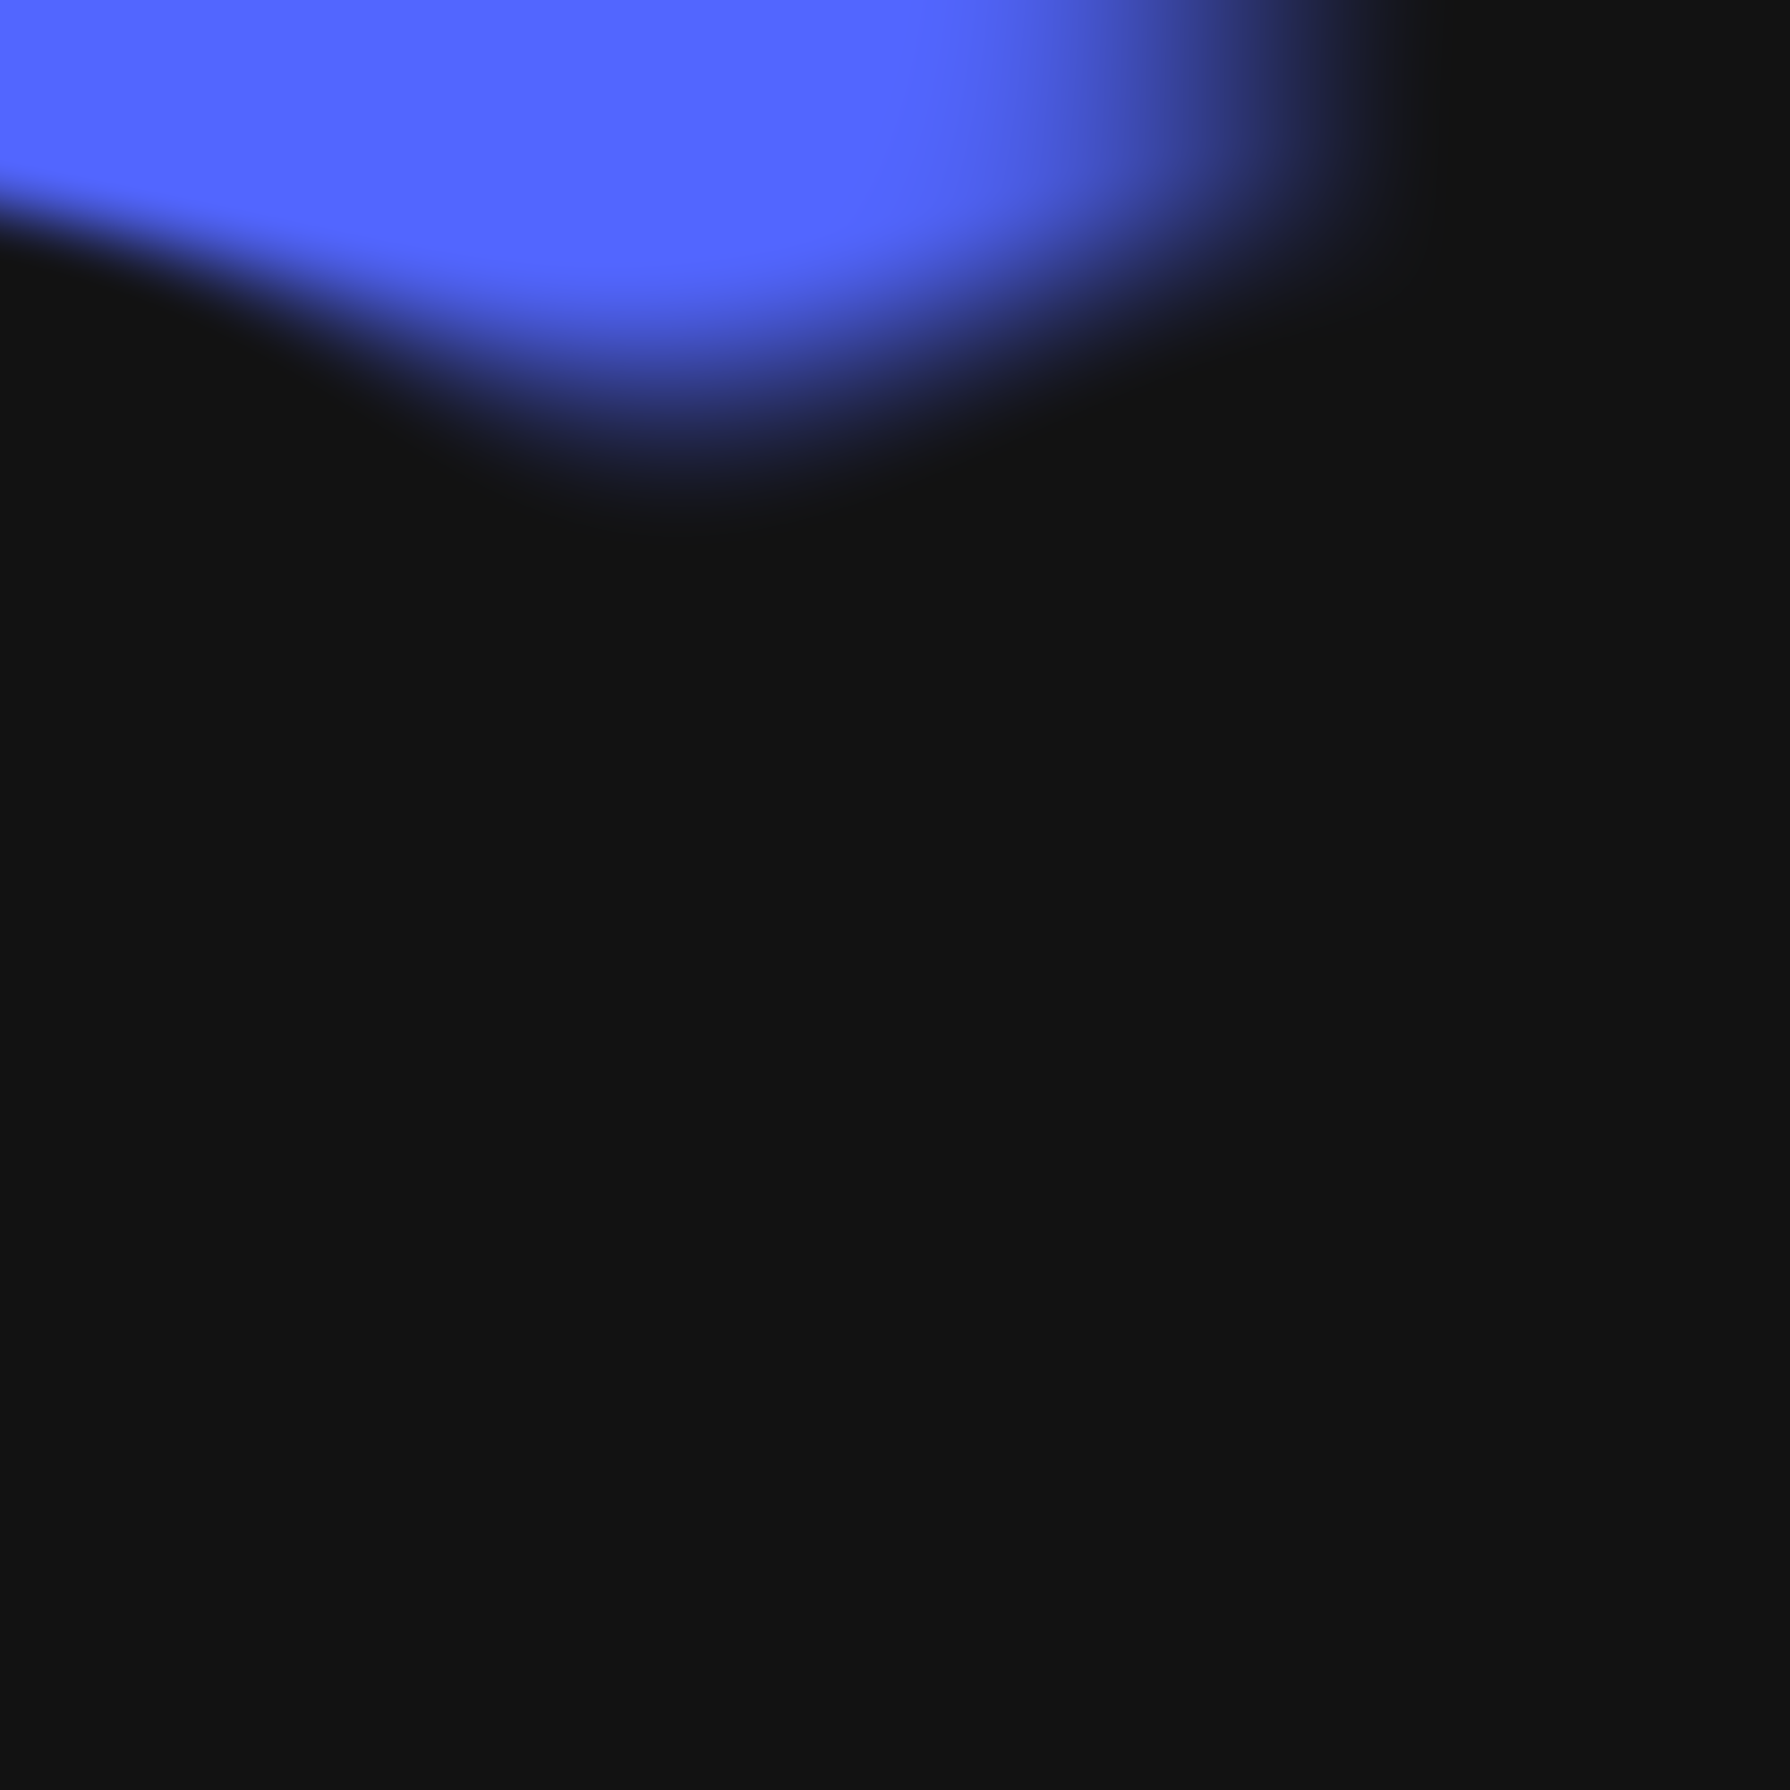
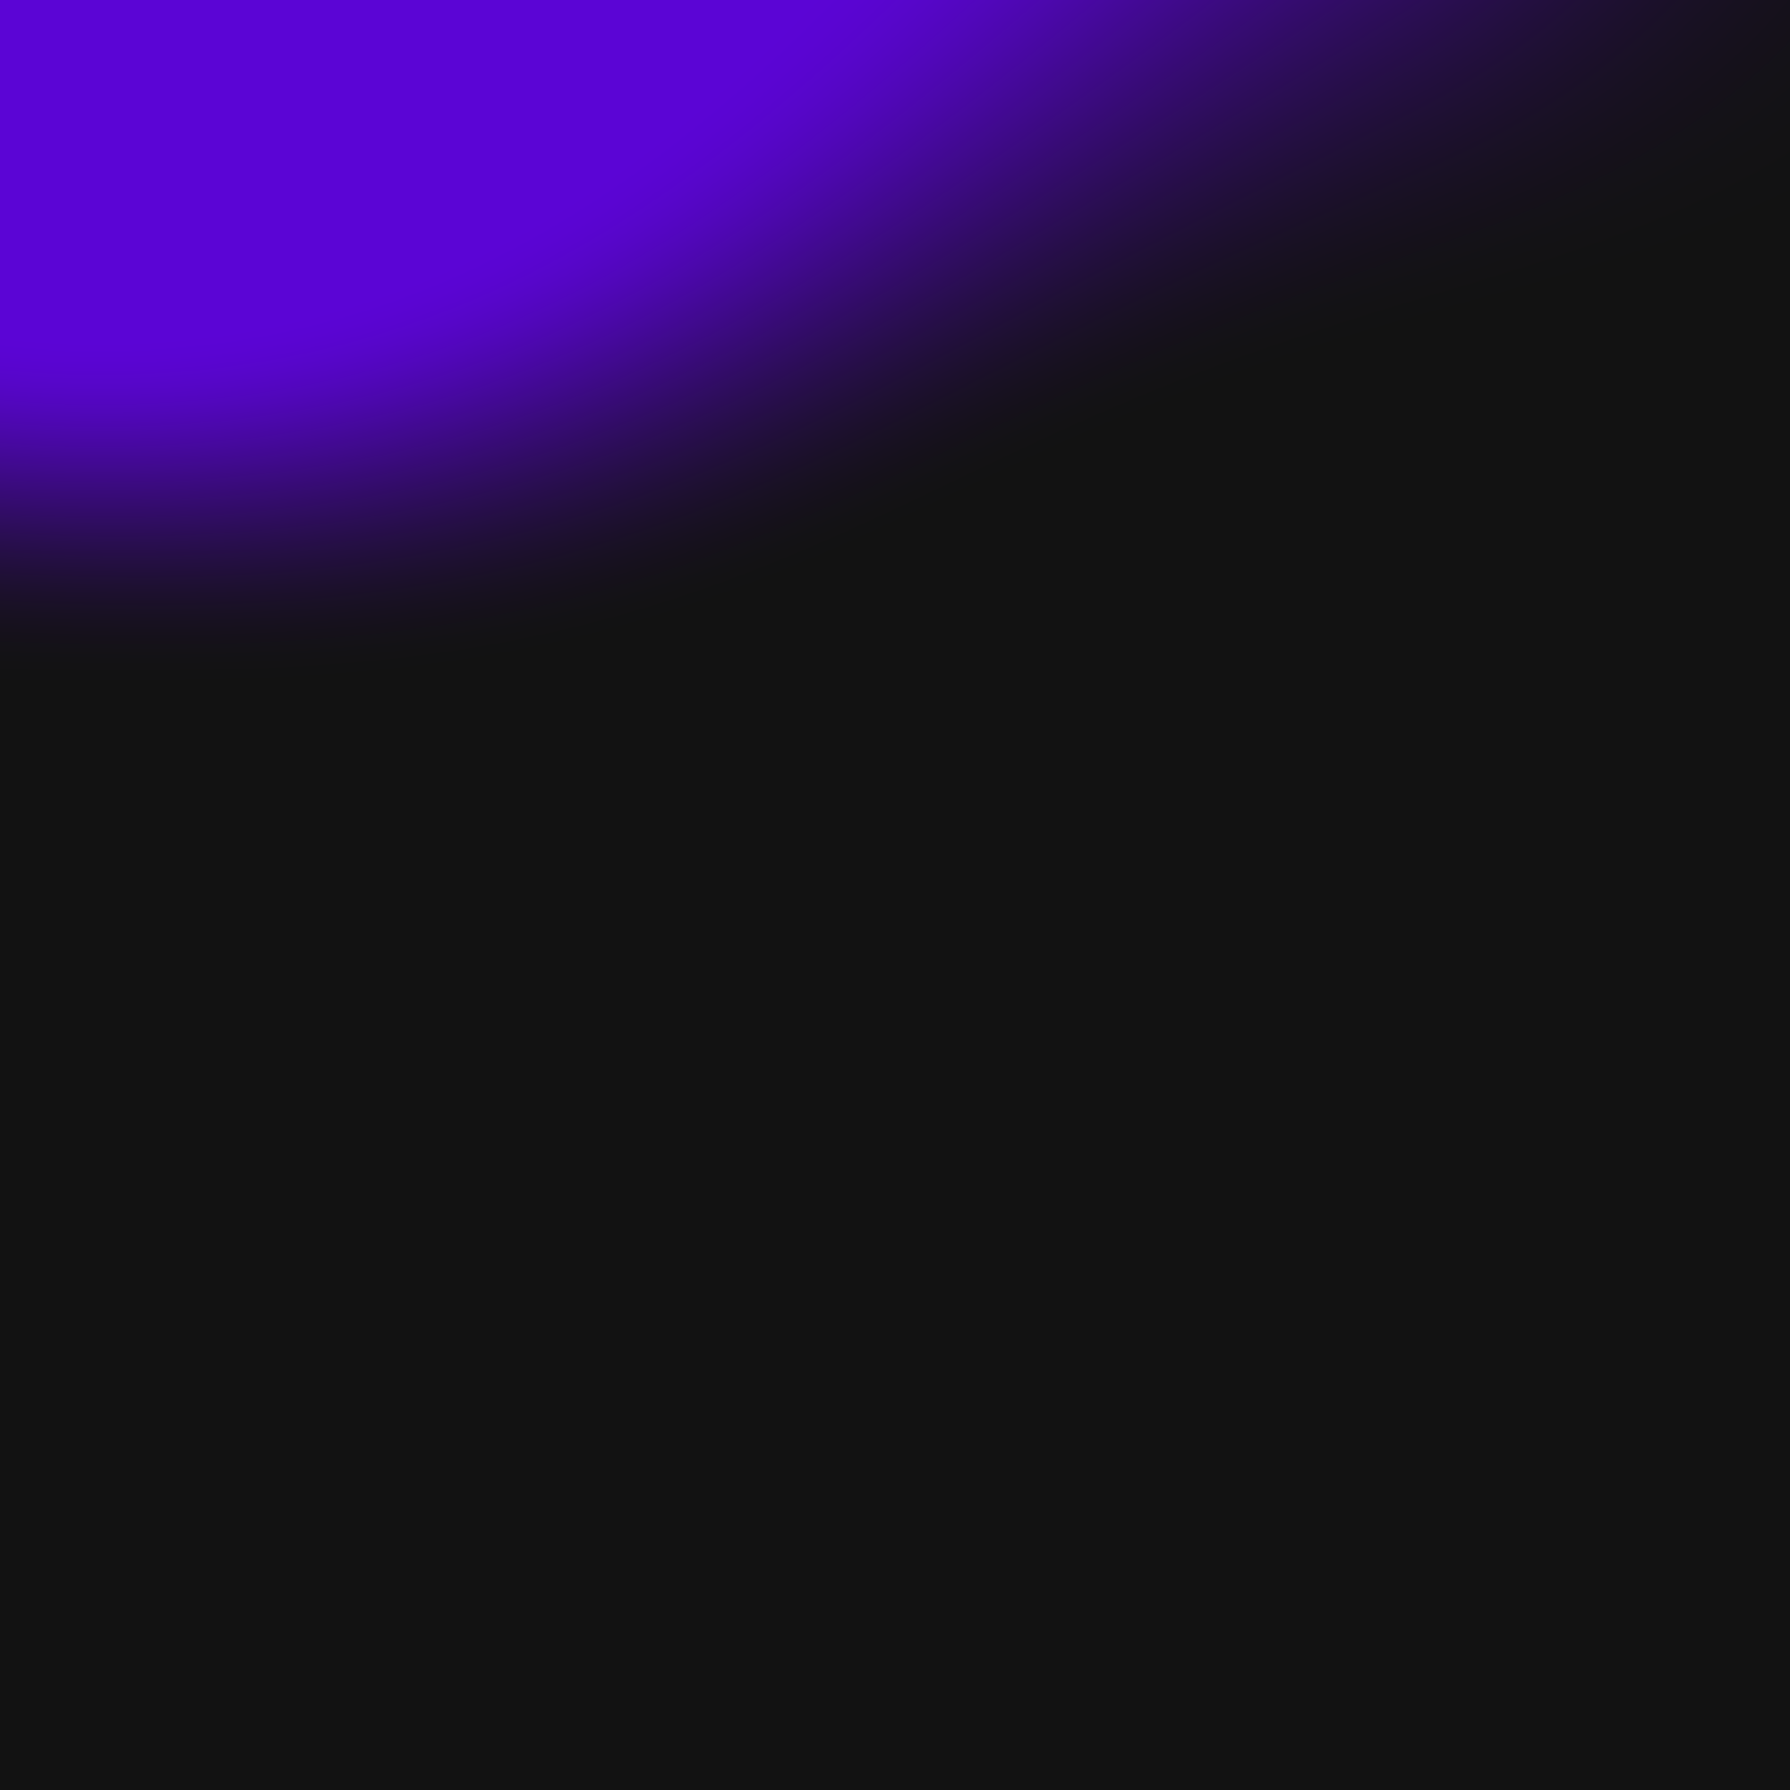
initialized dark mode

Changed region(s): [[0.0, 0.0, 0.93, 0.341]]

diff --git a/public/stylesheets/main.min.css b/public/stylesheets/main.min.css
@@ -1,2 +1,2 @@
-html{--scrollbarBG: #cfd8dc;--thumbBG: #90a4ae}body::-webkit-scrollbar{width:11px}body{scrollbar-width:thin;scrollbar-color:var(--thumbBG) var(--scrollbarBG)}body::-webkit-scrollbar-track{background:var(--scrollbarBG)}body::-webkit-scrollbar-thumb{background-color:var(--thumbBG);border-radius:6px;border:3px solid var(--scrollbarBG)}body{font-family:"Poppins", sans-serif;font-weight:400}.navbar{font-family:"DM Sans", sans-serif;font-weight:700;font-size:1.1rem;width:100%;z-index:1}.navbar .btn:nth-child(1):hover{color:white}.navbar a:not(.dropdown-toggle):not(.nohover){display:inline-block;text-decoration:none}.navbar a:not(.dropdown-toggle):not(.nohover)::after{content:"";display:block;width:0;height:2px;background:black;-webkit-transition:width 0.3s;transition:width 0.3s}.navbar a:not(.dropdown-toggle):not(.nohover):hover{color:black}.navbar a:not(.dropdown-toggle):not(.nohover):hover::after{width:100%;-webkit-transition:width 0.3s;transition:width 0.3s}.koristenje{margin-bottom:1rem;font-size:1.4rem;color:black;display:inline-block;text-decoration:none}.koristenje::after{content:"";display:block;width:0;height:2px;background:black;-webkit-transition:width 0.3s;transition:width 0.3s}.koristenje:hover{color:black}.koristenje:hover::after{width:100%;-webkit-transition:width 0.3s;transition:width 0.3s}.pocetak{margin:5rem 0}.pocetak p{font-size:1.5rem;color:#774df3;font-family:"Raleway", sans-serif;font-weight:400}.pocetak a{font-family:"DM Sans", sans-serif;font-weight:700;font-size:1.25rem}.pocetak img{height:7rem;-webkit-animation-name:arrowDown;animation-name:arrowDown;-webkit-animation-duration:3s;animation-duration:3s;-webkit-animation-iteration-count:infinite;animation-iteration-count:infinite}@-webkit-keyframes arrowDown{0%{-webkit-transform:translateY(0px);transform:translateY(0px)}50%{-webkit-transform:translateY(1.5rem);transform:translateY(1.5rem)}100%{-webkit-transform:translateY(0px);transform:translateY(0px)}}@keyframes arrowDown{0%{-webkit-transform:translateY(0px);transform:translateY(0px)}50%{-webkit-transform:translateY(1.5rem);transform:translateY(1.5rem)}100%{-webkit-transform:translateY(0px);transform:translateY(0px)}}.display-1,.display-2,.display-3,.display-4{font-family:"DM Sans", sans-serif}h2{font-weight:300}.mesh{background:url(../images/light-mesh.png)}@media (min-width: 992px){.mesh{background:url(../images/light-mesh.png) no-repeat;-webkit-animation-name:mesh;animation-name:mesh;-webkit-animation-duration:7s;animation-duration:7s;-webkit-animation-iteration-count:infinite;animation-iteration-count:infinite}@-webkit-keyframes mesh{0%{background-size:90%}50%{background-size:120%}100%{background-size:90%}}@keyframes mesh{0%{background-size:90%}50%{background-size:120%}100%{background-size:90%}}}.primarna{background-color:#fafafa}.dark{background-color:#121212}.dark-card{-webkit-animation-name:cardDemo;animation-name:cardDemo;-webkit-animation-duration:10s;animation-duration:10s;-webkit-animation-iteration-count:infinite;animation-iteration-count:infinite}.dark-card .card-title{-webkit-animation-name:cardDemoTitle;animation-name:cardDemoTitle;-webkit-animation-duration:10s;animation-duration:10s;-webkit-animation-iteration-count:infinite;animation-iteration-count:infinite}.dark-card .btn{color:white;-webkit-animation-name:cardDemoButton;animation-name:cardDemoButton;-webkit-animation-duration:10s;animation-duration:10s;-webkit-animation-iteration-count:infinite;animation-iteration-count:infinite}.dark-boja{background-color:#fafafa;-webkit-animation-name:darkDemo;animation-name:darkDemo;-webkit-animation-duration:10s;animation-duration:10s;-webkit-animation-iteration-count:infinite;animation-iteration-count:infinite}.blob{background:url(../images/blob.svg) no-repeat center;-webkit-animation-name:blobDemo;animation-name:blobDemo;-webkit-animation-duration:10s;animation-duration:10s;-webkit-animation-iteration-count:infinite;animation-iteration-count:infinite}@-webkit-keyframes darkDemo{0%{background:#fafafa}50%{background-color:#121212;color:white}100%{background:#fafafa}}@keyframes darkDemo{0%{background:#fafafa}50%{background-color:#121212;color:white}100%{background:#fafafa}}@-webkit-keyframes blobDemo{0%{background-size:0%}50%{background-size:95%}100%{background-size:0%}}@keyframes blobDemo{0%{background-size:0%}50%{background-size:95%}100%{background-size:0%}}@-webkit-keyframes cardDemo{0%{border-radius:0.5rem}50%{background:#333;color:white;border-radius:1rem}100%{background:white;border-radius:0rem}}@keyframes cardDemo{0%{border-radius:0.5rem}50%{background:#333;color:white;border-radius:1rem}100%{background:white;border-radius:0rem}}@-webkit-keyframes cardDemoTitle{0%{color:#7828e2}50%{color:#6cf0b3}100%{color:red}}@keyframes cardDemoTitle{0%{color:#7828e2}50%{color:#6cf0b3}100%{color:red}}@-webkit-keyframes cardDemoButton{0%{border-radius:0.25rem}50%{border-radius:0.5rem}100%{border-radius:0.25rem}}@keyframes cardDemoButton{0%{border-radius:0.25rem}50%{border-radius:0.5rem}100%{border-radius:0.25rem}}.pricing h5{font-family:"DM Sans", sans-serif;font-size:1.75rem}.pricing img{height:24px}.pricing .enterprise h5{background:-webkit-gradient(linear, left top, right top, from(#7f00f5), to(#46fcee));background:linear-gradient(90deg, #7f00f5 0%, #46fcee 100%);-webkit-background-clip:text;-webkit-text-fill-color:transparent}.pricing .premium{-webkit-transform:scale(1.05);transform:scale(1.05);-webkit-transition:all 0.2s ease-in-out;transition:all 0.2s ease-in-out}.pricing .premium h5{background:-webkit-gradient(linear, left top, right top, from(#833ab4), color-stop(50%, #fd1d1d), to(#fcb045));background:linear-gradient(90deg, #833ab4 0%, #fd1d1d 50%, #fcb045 100%);-webkit-background-clip:text;-webkit-text-fill-color:transparent}.pricing .premium:hover{-webkit-transform:scale(1.1);transform:scale(1.1)}.pricing .free h5{background:-webkit-gradient(linear, left top, right top, from(#000), to(#50f));background:linear-gradient(90deg, #000 0%, #50f 100%);-webkit-background-clip:text;-webkit-text-fill-color:transparent}.pricing .cijena{font-family:"DM Sans", sans-serif}.pricing a{display:block}.pricing .card{margin-bottom:3rem}.pricing .card:not(.premium){-webkit-transition:all 0.2s ease-in-out;transition:all 0.2s ease-in-out}.pricing .card:not(.premium):hover{-webkit-transform:scale(1.05);transform:scale(1.05)}footer{background-color:#121212;color:white}footer a{display:block;color:#a5b4cf;text-decoration:none}footer a:hover{color:#766efe}.sekundarna{background-color:#766efe}.dodatno span{color:#686868}.dodatno a{color:black}.ikone{text-align:center;width:33%}.ikone img{height:5rem;display:block;width:40%;margin:0.5rem auto}@media (min-width: 992px){.crta-desno{border-right:1px solid black}.mesh404{background:url(../images/404gradient.png) center no-repeat;-webkit-animation-name:notFound;animation-name:notFound;-webkit-animation-duration:5s;animation-duration:5s;-webkit-animation-iteration-count:infinite;animation-iteration-count:infinite}@-webkit-keyframes notFound{0%{background-size:70%}50%{background-size:90%}100%{background-size:70%}}@keyframes notFound{0%{background-size:70%}50%{background-size:90%}100%{background-size:70%}}.vh-100{height:100vh}}.vh-100{height:60vh}
+html{--scrollbarBG: #cfd8dc;--thumbBG: #90a4ae}body::-webkit-scrollbar{width:11px}body{scrollbar-width:thin;scrollbar-color:var(--thumbBG) var(--scrollbarBG)}body::-webkit-scrollbar-track{background:var(--scrollbarBG)}body::-webkit-scrollbar-thumb{background-color:var(--thumbBG);border-radius:6px;border:3px solid var(--scrollbarBG)}body{font-family:"Poppins", sans-serif;font-weight:400}.navbar{font-family:"DM Sans", sans-serif;font-weight:700;font-size:1.1rem;width:100%;z-index:1}.navbar .btn:nth-child(1):hover{color:white}.navbar a:not(.dropdown-toggle):not(.nohover){display:inline-block;text-decoration:none}.navbar a:not(.dropdown-toggle):not(.nohover)::after{content:"";display:block;width:0;height:2px;background:black;-webkit-transition:width 0.3s;transition:width 0.3s}.navbar a:not(.dropdown-toggle):not(.nohover):hover{color:black}.navbar a:not(.dropdown-toggle):not(.nohover):hover::after{width:100%;-webkit-transition:width 0.3s;transition:width 0.3s}.koristenje{margin-bottom:1rem;font-size:1.4rem;color:black;display:inline-block;text-decoration:none}.koristenje::after{content:"";display:block;width:0;height:2px;background:black;-webkit-transition:width 0.3s;transition:width 0.3s}.koristenje:hover{color:black}.koristenje:hover::after{width:100%;-webkit-transition:width 0.3s;transition:width 0.3s}.pocetak{margin:5rem 0 0 0;padding-bottom:5rem}.pocetak p{font-size:1.5rem;color:#774df3;font-family:"Raleway", sans-serif;font-weight:400}.pocetak a{font-family:"DM Sans", sans-serif;font-weight:700;font-size:1.25rem}.pocetak img{height:7rem;-webkit-animation-name:arrowDown;animation-name:arrowDown;-webkit-animation-duration:3s;animation-duration:3s;-webkit-animation-iteration-count:infinite;animation-iteration-count:infinite}@-webkit-keyframes arrowDown{0%{-webkit-transform:translateY(0px);transform:translateY(0px)}50%{-webkit-transform:translateY(1.5rem);transform:translateY(1.5rem)}100%{-webkit-transform:translateY(0px);transform:translateY(0px)}}@keyframes arrowDown{0%{-webkit-transform:translateY(0px);transform:translateY(0px)}50%{-webkit-transform:translateY(1.5rem);transform:translateY(1.5rem)}100%{-webkit-transform:translateY(0px);transform:translateY(0px)}}.display-1,.display-2,.display-3,.display-4{font-family:"DM Sans", sans-serif}h2{font-weight:300}.mesh{background:url(../images/light-mesh.png)}.dark-mesh{background:url(../images/dark-mesh.png)}.dark-mesh h1{color:white}.dark-mesh p{color:#c8caf8}@media (min-width: 992px){.mesh{background:url(../images/light-mesh.png) no-repeat;-webkit-animation-name:mesh;animation-name:mesh;-webkit-animation-duration:7s;animation-duration:7s;-webkit-animation-iteration-count:infinite;animation-iteration-count:infinite}@-webkit-keyframes mesh{0%{background-size:90%}50%{background-size:120%}100%{background-size:90%}}@keyframes mesh{0%{background-size:90%}50%{background-size:120%}100%{background-size:90%}}}.primarna{background-color:#fafafa}.dark{background-color:#121212;color:white}.dark-price{background-color:#333;color:white}.dark-card{-webkit-animation-name:cardDemo;animation-name:cardDemo;-webkit-animation-duration:10s;animation-duration:10s;-webkit-animation-iteration-count:infinite;animation-iteration-count:infinite}.dark-card .card-title{-webkit-animation-name:cardDemoTitle;animation-name:cardDemoTitle;-webkit-animation-duration:10s;animation-duration:10s;-webkit-animation-iteration-count:infinite;animation-iteration-count:infinite}.dark-card .btn{color:white;-webkit-animation-name:cardDemoButton;animation-name:cardDemoButton;-webkit-animation-duration:10s;animation-duration:10s;-webkit-animation-iteration-count:infinite;animation-iteration-count:infinite}.dark-boja{background-color:#fafafa;-webkit-animation-name:darkDemo;animation-name:darkDemo;-webkit-animation-duration:10s;animation-duration:10s;-webkit-animation-iteration-count:infinite;animation-iteration-count:infinite}.blob{background:url(../images/blob.svg) no-repeat center;-webkit-animation-name:blobDemo;animation-name:blobDemo;-webkit-animation-duration:10s;animation-duration:10s;-webkit-animation-iteration-count:infinite;animation-iteration-count:infinite}@-webkit-keyframes darkDemo{0%{background:#fafafa}50%{background-color:#121212;color:white}100%{background:#fafafa}}@keyframes darkDemo{0%{background:#fafafa}50%{background-color:#121212;color:white}100%{background:#fafafa}}@-webkit-keyframes blobDemo{0%{background-size:0%}50%{background-size:95%}100%{background-size:0%}}@keyframes blobDemo{0%{background-size:0%}50%{background-size:95%}100%{background-size:0%}}@-webkit-keyframes cardDemo{0%{border-radius:0.5rem}50%{background:#333;color:white;border-radius:1rem}100%{background:white;border-radius:0rem}}@keyframes cardDemo{0%{border-radius:0.5rem}50%{background:#333;color:white;border-radius:1rem}100%{background:white;border-radius:0rem}}@-webkit-keyframes cardDemoTitle{0%{color:#7828e2}50%{color:#6cf0b3}100%{color:red}}@keyframes cardDemoTitle{0%{color:#7828e2}50%{color:#6cf0b3}100%{color:red}}@-webkit-keyframes cardDemoButton{0%{border-radius:0.25rem}50%{border-radius:0.5rem}100%{border-radius:0.25rem}}@keyframes cardDemoButton{0%{border-radius:0.25rem}50%{border-radius:0.5rem}100%{border-radius:0.25rem}}.pricing h5{font-family:"DM Sans", sans-serif;font-size:1.75rem}.pricing img{height:24px}.pricing .enterprise h5{background:-webkit-gradient(linear, left top, right top, from(#7f00f5), to(#46fcee));background:linear-gradient(90deg, #7f00f5 0%, #46fcee 100%);-webkit-background-clip:text;-webkit-text-fill-color:transparent}.pricing .premium{-webkit-transform:scale(1.05);transform:scale(1.05);-webkit-transition:all 0.2s ease-in-out;transition:all 0.2s ease-in-out}.pricing .premium h5{background:-webkit-gradient(linear, left top, right top, from(#833ab4), color-stop(50%, #fd1d1d), to(#fcb045));background:linear-gradient(90deg, #833ab4 0%, #fd1d1d 50%, #fcb045 100%);-webkit-background-clip:text;-webkit-text-fill-color:transparent}.pricing .premium:hover{-webkit-transform:scale(1.1);transform:scale(1.1)}.pricing .free h5{background:-webkit-gradient(linear, left top, right top, from(#000), to(#50f));background:linear-gradient(90deg, #000 0%, #50f 100%);-webkit-background-clip:text;-webkit-text-fill-color:transparent}.pricing .cijena{font-family:"DM Sans", sans-serif}.pricing a{display:block}.pricing .card{margin-bottom:3rem}.pricing .card:not(.premium){-webkit-transition:all 0.2s ease-in-out;transition:all 0.2s ease-in-out}.pricing .card:not(.premium):hover{-webkit-transform:scale(1.05);transform:scale(1.05)}footer{background-color:#121212;color:white}footer a{display:block;color:#a5b4cf;text-decoration:none}footer a:hover{color:#766efe}.sekundarna{background-color:#766efe}.dodatno span{color:#686868}.dodatno a{color:black}.ikone{text-align:center;width:33%}.ikone img{height:5rem;display:block;width:40%;margin:0.5rem auto}@media (min-width: 992px){.crta-desno{border-right:1px solid black}.mesh404{background:url(../images/404gradient.png) center no-repeat;-webkit-animation-name:notFound;animation-name:notFound;-webkit-animation-duration:5s;animation-duration:5s;-webkit-animation-iteration-count:infinite;animation-iteration-count:infinite}@-webkit-keyframes notFound{0%{background-size:70%}50%{background-size:90%}100%{background-size:70%}}@keyframes notFound{0%{background-size:70%}50%{background-size:90%}100%{background-size:70%}}.vh-100{height:100vh}}.vh-100{height:60vh}
 /*# sourceMappingURL=main.min.css.map */

diff --git a/public/scss/main.scss b/public/scss/main.scss
@@ -50,7 +50,8 @@ body {
 }
 
 .pocetak {
-    margin: 5rem 0;
+    margin: 5rem 0 0 0;
+    padding-bottom: 5rem;
     p {
         font-size: 1.5rem;
         color: #774df3;
@@ -97,6 +98,16 @@ h2 {
     background: url(../images/light-mesh.png);
 }
 
+.dark-mesh {
+    background: url(../images/dark-mesh.png);
+    h1 {
+        color: white;
+    }
+    p {
+        color: #c8caf8;
+    }
+}
+
 @media (min-width: 992px) {
     .mesh {
         background: url(../images/light-mesh.png) no-repeat;
@@ -123,6 +134,12 @@ h2 {
 
 .dark {
     background-color: #121212;
+    color: white;
+}
+
+.dark-price {
+    background-color: #333;
+    color: white;
 }
 
 .dark-card {
@@ -297,7 +314,7 @@ footer {
     }
 }
 
-.sekundarna{
+.sekundarna {
     background-color: $sekundarna;
 }
 
